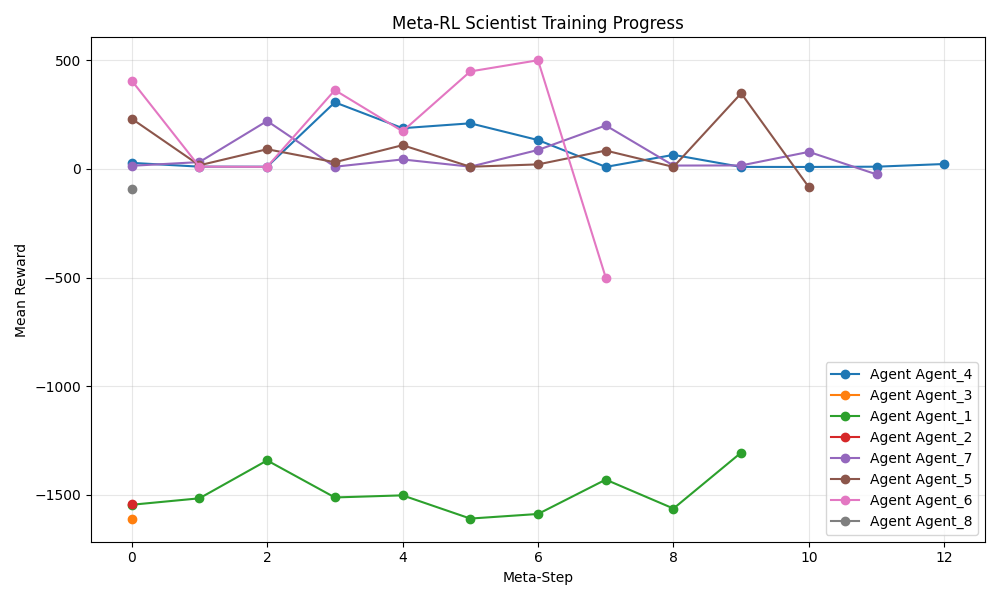
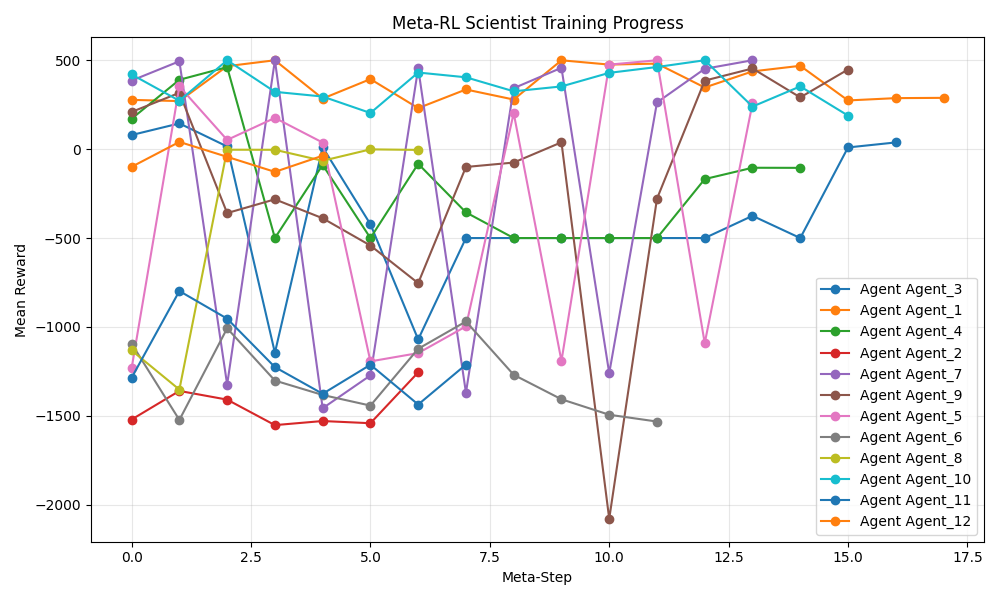
tier 3 unlock

diff --git a/marl_scientist/main.py b/marl_scientist/main.py
@@ -24,7 +24,8 @@ def main():
     log.info("[bold green]=== Initializing Async Meta-Scientist Ecosystem ===[/bold green]")
     
     # 1. Setup Environment
-    lab = LabEnvironment(authorized_benchmarks=["CartPole-v1", "Acrobot-v1", "Pendulum-v1"])
+    benchmarks = ["CartPole-v1", "Acrobot-v1", "Pendulum-v1", "LunarLander-v3", "MountainCarContinuous-v0", "Hopper-v4", "Walker2d-v4", "HalfCheetah-v4"]
+    lab = LabEnvironment(authorized_benchmarks=benchmarks, max_workers=args.max_agents)
     kb = RealKnowledgeStore()
     kb.ingest_folder("knowledge/") 
     
@@ -102,9 +103,14 @@ def main():
                             population_reward_history.pop(0)
                         
                         pop_mean = sum(population_reward_history) / len(population_reward_history)
-                        relative_reward = rewards[aid] - pop_mean
                         
-                        log.info(f"  - Meta-Reward: {rewards[aid]:.2f} (Rel: {relative_reward:+.2f})")
+                        # [NEW] Swarm Urgency (Survival Cost)
+                        # As the simulation progresses, meta-rewards face a small decay.
+                        # This increases the relative pressure for improvement.
+                        survival_cost = 0.05
+                        relative_reward = (rewards[aid] - pop_mean) - survival_cost
+                        
+                        log.info(f"  - Meta-Reward: {rewards[aid]:.2f} (Rel: {relative_reward:+.2f}, Cost: {survival_cost})")
                         
                         # Update Agent
                         if aid in agents:
@@ -182,11 +188,37 @@ def main():
             proposal_buffer.sort(key=lambda x: x[0])
             
             # 2. Dispatch from buffer to Lab as long as slots are open
+            n_elites = max(1, len(agents) // 4)
+            elite_aids = [aid for _, aid, _ in proposal_buffer[:n_elites]]
+            
             for _, aid, config in proposal_buffer:
                 if busy_count < max_workers:
-                    # [NEW] Dynamic Step Budget
-                    continuous_envs = ["Pendulum-v1", "MountainCarContinuous-v0", "LunarLanderContinuous-v2"]
-                    steps = 80000 if config.env_id in continuous_envs else 30000
+                    # [NEW] Pioneer Pressure
+                    # If elite, we check if they are proposing from the highest unlocked tier
+                    unlocked_envs = lab.tiers[lab.tier]
+                    if aid in elite_aids and config.env_id not in unlocked_envs and lab.tier > 0:
+                        # Force them to a random env from the new tier
+                        import random
+                        old_env = config.env_id
+                        config.env_id = random.choice(unlocked_envs)
+                        log.info(f"[Pioneer] Redirecting Elite {aid} from {old_env} to {config.env_id}!")
+
+                    # [NEW] Tiered Step Budget
+                    if config.env_id in ["CartPole-v1"]:
+                        steps = 30000
+                    elif config.env_id in ["Pendulum-v1", "Acrobot-v1"]:
+                        steps = 100000
+                    elif config.env_id in ["LunarLander-v3"]:
+                        steps = 200000
+                    elif config.env_id in ["MountainCarContinuous-v0"]:
+                        steps = 300000
+                    elif config.env_id in ["Hopper-v4", "Walker2d-v4"]:
+                        steps = 500000
+                    elif config.env_id in ["HalfCheetah-v4"]:
+                        steps = 1000000
+                    else:
+                        steps = 50000
+                        
                     config.hyperparameters["total_timesteps"] = steps
                     
                     log.info(f"[Dispatch] {aid} (Prio: {-priority:.1f}) -> {config.env_id} for {steps//1000}k steps")

diff --git a/marl_scientist/env/lab_env.py b/marl_scientist/env/lab_env.py
@@ -12,7 +12,7 @@ class LabEnvironment(MetaEnvironment):
     """
     The 'Lab' where Researcher Agents submit their experiment configurations.
     """
-    def __init__(self, authorized_benchmarks: List[str] = ["CartPole-v1"]):
+    def __init__(self, authorized_benchmarks: List[str] = ["CartPole-v1"], max_workers: int = 8):
         self.log = setup_logger()
         self.benchmarks = authorized_benchmarks
         # Cache metadata for benchmarks
@@ -31,17 +31,19 @@ class LabEnvironment(MetaEnvironment):
         self.tiers = {
             0: ["CartPole-v1", "Pendulum-v1"],
             1: ["LunarLander-v3", "Acrobot-v1"],
-            2: ["MountainCarContinuous-v0"]
+            2: ["MountainCarContinuous-v0"],
+            3: ["Hopper-v4", "Walker2d-v4", "HalfCheetah-v4"]
         }
         # Threshold to UNLOCK next tier
         self.tier_thresholds = {
             0: 450.0, # CartPole/Pendulum solved
             1: 200.0, # LunarLander solved
-            2: float('inf')
+            2: 90.0,  # MountainCar solved (or progressed)
+            3: float('inf')
         }
     
         # [NEW] Async Executor
-        self.executor = ProcessPoolExecutor(max_workers=8) # Fixed pool size
+        self.executor = ProcessPoolExecutor(max_workers=max_workers)
         self.futures_map = {} # future -> (agent_id, start_time)
         self.running_experiments = {} # agent_id -> config
         
@@ -173,7 +175,10 @@ class LabEnvironment(MetaEnvironment):
             "Acrobot-v1": {"min": -500, "max": -100},
             "Pendulum-v1": {"min": -2000, "max": -150},
             "LunarLander-v3": {"min": -500, "max": 200},
-            "MountainCarContinuous-v0": {"min": -100, "max": 100}
+            "MountainCarContinuous-v0": {"min": -100, "max": 100},
+            "Hopper-v4": {"min": 0, "max": 3000},
+            "Walker2d-v4": {"min": 0, "max": 3500},
+            "HalfCheetah-v4": {"min": 0, "max": 6000}
         }
         
         # 1. Base Performance (0 to 1)
@@ -191,7 +196,14 @@ class LabEnvironment(MetaEnvironment):
         # 3. Efficiency Score (Speed) (0 to 1)
         # Non-linear penalty: sqrt(penalty) makes it gentler initially.
         duration_ratio = min(1.0, result.duration_seconds / 150.0)
-        result.efficiency_score = max(0.0, 1.0 - np.sqrt(duration_ratio))
+        eff_score = max(0.0, 1.0 - np.sqrt(duration_ratio))
+        
+        # [NEW] Failure-Aware Capping
+        # If the agent failed the task (performance < 10%), we don't reward speed.
+        if result.performance_score < 0.1:
+            eff_score = min(eff_score, 0.1)
+            
+        result.efficiency_score = eff_score
         
         # 4. Novelty Score (0 to 1)
         novelty_score = self.novelty_calc.calculate_novelty(result.config)

diff --git a/marl_scientist/agents/brain.py b/marl_scientist/agents/brain.py
@@ -17,7 +17,7 @@ class MetaBrain(nn.Module):
         knowledge_dim: int = 768, # Matches LLM embeddings
         hidden_dim: int = 256,
         num_algos: int = 4,
-        num_envs: int = 5,
+        num_envs: int = 8,
         num_continuous_hps: int = 6
     ):
         super().__init__()
@@ -131,7 +131,10 @@ class BrainEncoder:
     """Helper to convert core objects to tensors for the Brain."""
     
     ALGOS = ["PPO", "A2C", "DQN", "SAC"]
-    ENVS = ["CartPole-v1", "LunarLander-v3", "Pendulum-v1", "Acrobot-v1", "MountainCarContinuous-v0"]
+    ENVS = [
+        "CartPole-v1", "LunarLander-v3", "Pendulum-v1", "Acrobot-v1", 
+        "MountainCarContinuous-v0", "Hopper-v4", "Walker2d-v4", "HalfCheetah-v4"
+    ]
     
     def __init__(self, history_len: int = 10):
         self.history_len = history_len
